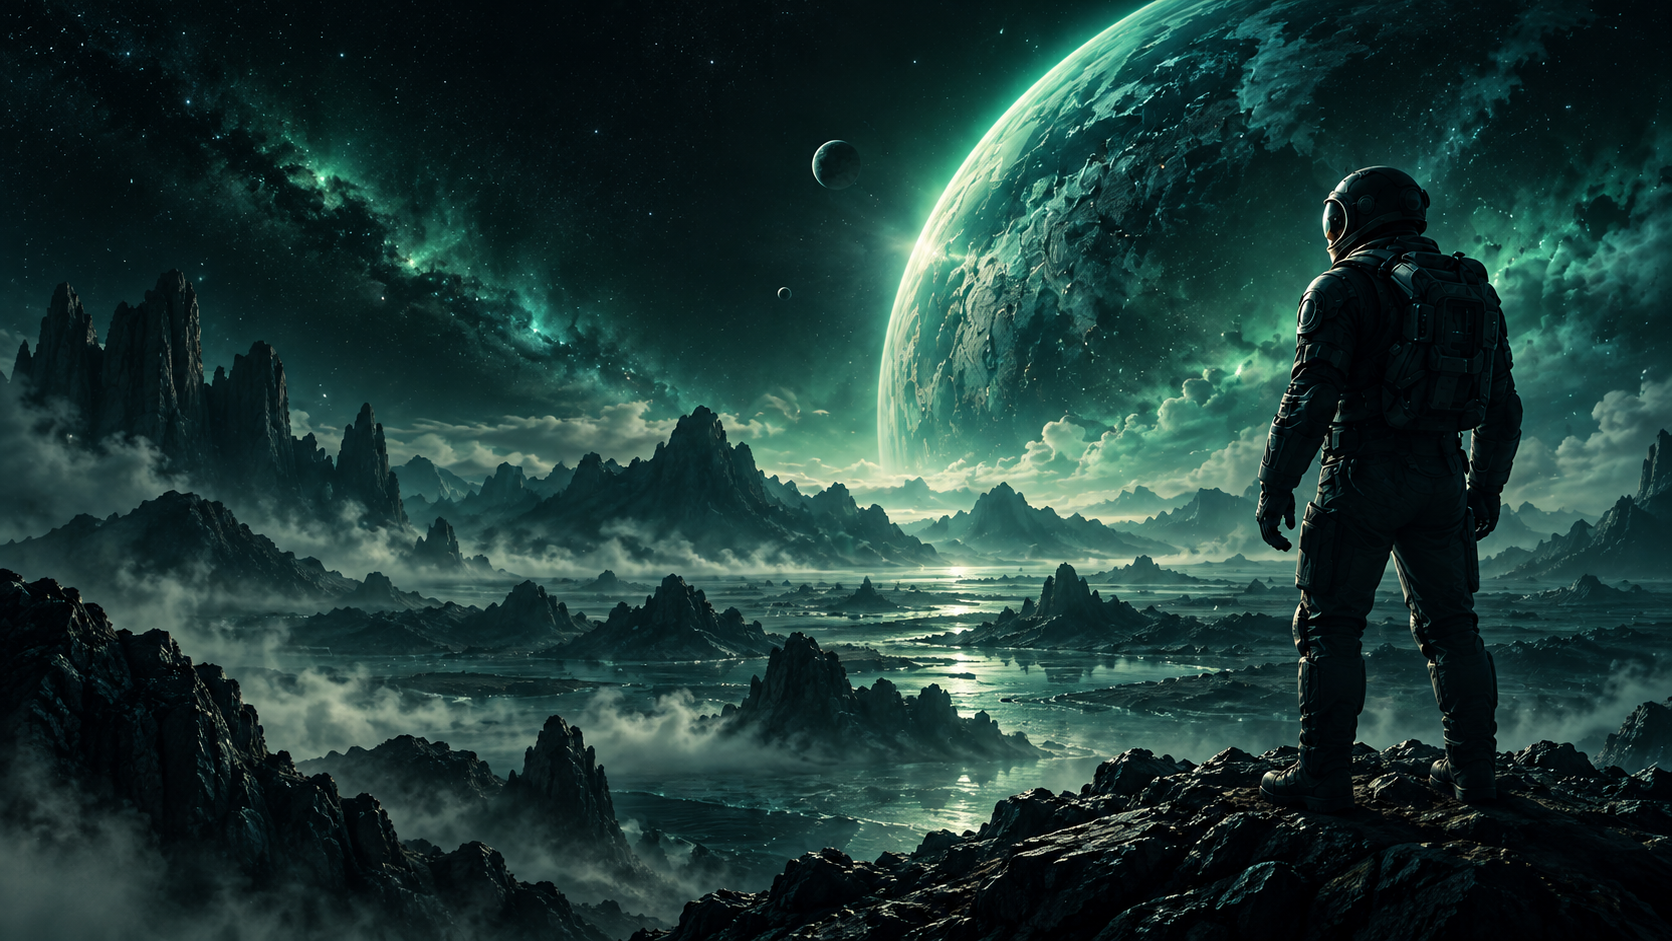
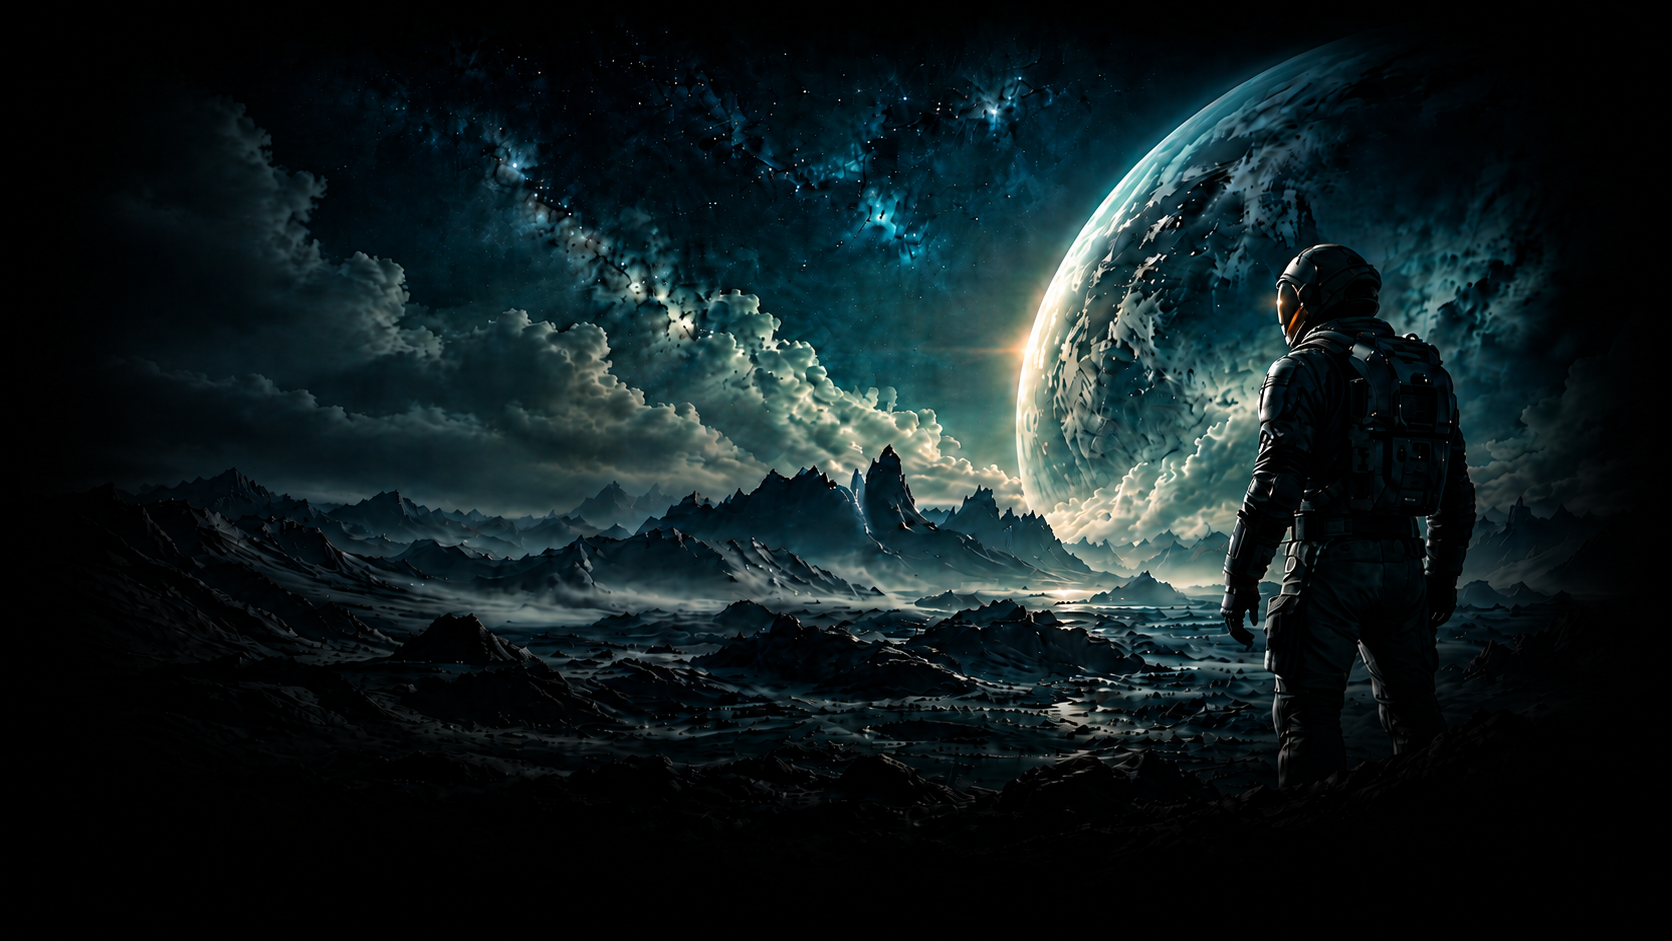
fix: mejorar contraste e integracion visual de nosotros y agregar colores globales

diff --git a/css/nosotros.css b/css/nosotros.css
@@ -10,7 +10,17 @@
 
 .about-hero {
   min-height: 70vh;
-  background-image: url("../assets/img/imagen_hombre_luna.png");
+
+  background-image:
+    linear-gradient(
+      to right,
+      rgba(6, 11, 16, 0.95) 0%,
+      rgba(6, 11, 16, 0.75) 40%,
+      rgba(6, 11, 16, 0.15) 70%,
+      rgba(6, 11, 16, 0) 100%
+    ),
+    url("../assets/img/imagen_hombre_luna.png");
+
   background-repeat: no-repeat;
   background-size: cover;
   background-position: center;

diff --git a/css/colores.css b/css/colores.css
@@ -1,0 +1,18 @@
+/* =========================
+   VARIABLES DE COLOR
+========================= */
+
+:root {
+  --verde-principal: #39F28A;
+  --verde-secundario: #28D97A;
+  --verde-hover: #66F7A8;
+
+  --fondo-principal: #060B10;
+  --fondo-secundario: #0B1219;
+  --superficie: #111923;
+
+  --borde: #243244;
+
+  --texto-principal: #F4F7FA;
+  --texto-secundario: #A7B3C2;
+}

diff --git a/paginas/nosotros.html b/paginas/nosotros.html
@@ -198,7 +198,7 @@
               >
 
               <h3 class="team-member-name">
-                #
+                Luciano Caucota
               </h3>
 
             </article>
